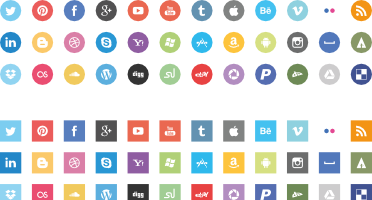
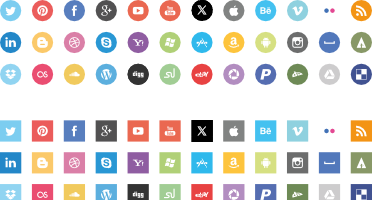
MIR-1506 modernize selection of Social Media networks

diff --git a/mir-layout/src/main/resources/META-INF/resources/mir-layout/scss/common/base.scss b/mir-layout/src/main/resources/META-INF/resources/mir-layout/scss/common/base.scss
@@ -104,11 +104,8 @@
     &.social_icon_fb {
       background-position: -64px -120px;
     }
-    &.social_icon_tw {
+    &.social_icon_x {
       background-position: -191px -120px;
-    }
-    &.social_icon_gg {
-      background-position: -95px -120px;
     }
   }
 
